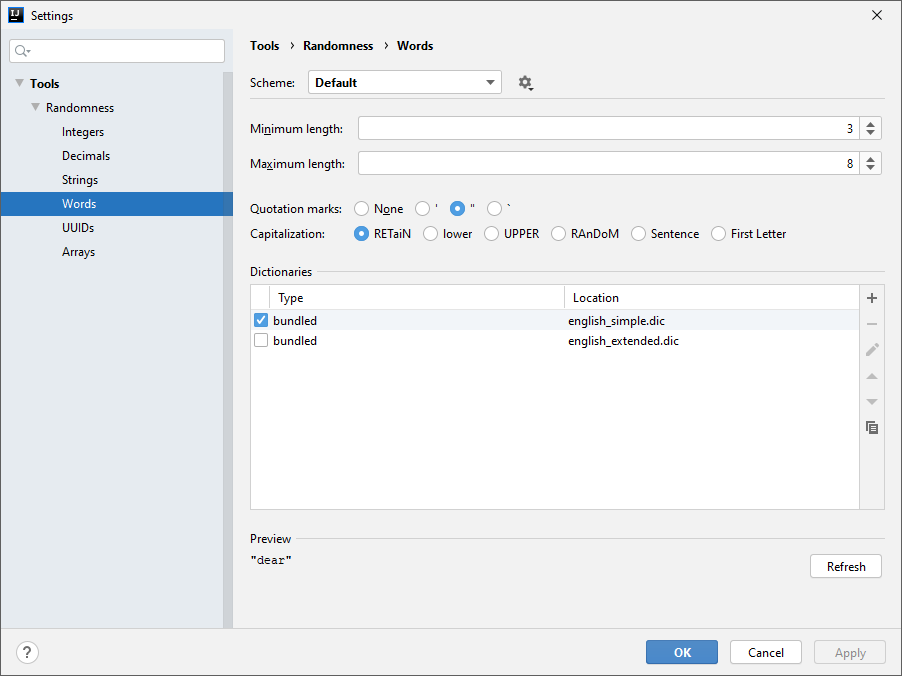
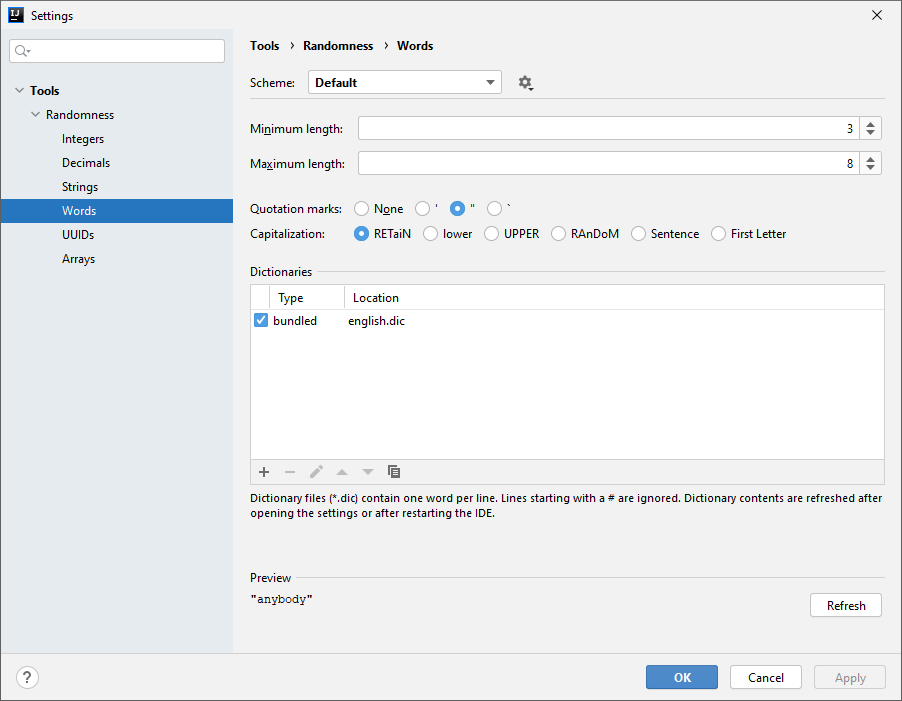
Bump version number, add change notes, update images

diff --git a/src/main/resources/META-INF/change-notes.html b/src/main/resources/META-INF/change-notes.html
@@ -1,23 +1,58 @@
 <b>Breaking changes</b>
 <ul>
-    <li>Minimum IDE version now 2019.3. (#209)</li>
-    <li>Removed extended English dictionary to improve performance and plugin size.</li>
+    <li>
+        Minimum IDE version has been increased to 2020.1.
+        (<a href="https://github.com/FWDekker/intellij-randomness/issues/209">#209</a>,
+         <a href="https://github.com/FWDekker/intellij-randomness/pull/345">#345</a>,
+         <a href="https://github.com/FWDekker/intellij-randomness/pull/361">#361</a>)
+    </li>
+    <li>
+        Extended English dictionary (<tt>english_extended.dic</tt>) has been removed to improve performance and reduce
+        plugin size.
+        (<a href="https://github.com/FWDekker/intellij-randomness/pull/352">#352</a>)
+    </li>
 </ul>
 <br />
 <b>New features</b>
 <ul>
-    <li>Change capitalization of integers base greater than 10. (#346)</li>
-    <li>Added in-app help info about dictionaries. (#347)</li>
-    <li>Improved error messages for IO failures with dictionaries. (#354)</li>
-    <li>Altered dictionary table column widths. (#354)</li>
-    <li>Improve detection of updated dictionaries in settings screen. (#354)</li>
-    <li>Detect invalid settings even when settings have not been changed. (#354)</li>
-    <li>Add improved support for drag-and-drop of dictionaries. (#350)</li>
+    <li>
+        <b>🔠 Integer capitalization</b>.<br />
+        Option to change capitalization of Integers with base greater than 10.
+        For example, generate <tt>0xFF</tt> instead of <tt>0xff</tt>.
+        (<a href="https://github.com/FWDekker/intellij-randomness/issues/346">#346</a>)
+    </li>
+    <li>
+        Short inline explanation of how dictionaries work in the Words settings dialog.
+        (<a href="https://github.com/FWDekker/intellij-randomness/issues/347">#347</a>)
+    </li>
+    <li>
+        Improved support for drag-and-drop of dictionary files into dictionary table.
+        (<a href="https://github.com/FWDekker/intellij-randomness/issues/350">#350</a>)
+    </li>
+    <li>
+        Improved error messages for IO failures with dictionaries.
+        (<a href="https://github.com/FWDekker/intellij-randomness/issues/354">#354</a>)
+    </li>
+    <li>
+        Natural column widths in dictionary table.
+        (<a href="https://github.com/FWDekker/intellij-randomness/issues/354">#354</a>)
+    </li>
+    <li>
+        Changes to dictionary contents are detected directly while in the Words settings dialog.
+        (<a href="https://github.com/FWDekker/intellij-randomness/issues/354">#354</a>)
+    </li>
+    <li>
+        Invalid settings are marked as modified even if settings have not been changed.
+        (<a href="https://github.com/FWDekker/intellij-randomness/issues/354">#354</a>)
+    </li>
 </ul>
 <br />
 <b>Fixes</b>
 <ul>
-    <li>Fixed sub-type listing using custom implementation. (#341)</li>
+    <li>
+        Listing of data types in Randomness settings dialog has been fixed.
+        (<a href="https://github.com/FWDekker/intellij-randomness/issues/341">#341</a>)
+    </li>
 </ul>
 <br />
 Change notes of previous updates can be found on the

diff --git a/.github/ISSUE_TEMPLATE/bug_report.md b/.github/ISSUE_TEMPLATE/bug_report.md
@@ -24,10 +24,10 @@ assignees: FWDekker
 <!-- If applicable, add screenshots to help explain your problem. -->
 
 **Version information**
- - Randomness version [e.g. 2.6.0]: <!-- Check `Settings -> Plugins` in your IDE and search for `Randomness` -->
- - IDE version [e.g. IntelliJ Community 2019.3.1]: <!-- Check `Help -> About` in your IDE -->
- - Operating system [e.g. Windows 10, Ubuntu 18.04, macOS 10.15]: <!-- Use a search engine for help if you don't know -->
- - Java version [e.g. 1.8.202, 11.0.4]: <!-- Run `java -version` in a terminal or check https://www.java.com/en/download/help/version_manual.xml -->
+ - Randomness version [e.g. 2.7.0]: <!-- Check `Settings -> Plugins` in your IDE and search for `Randomness` -->
+ - IDE version [e.g. IntelliJ Community 2020.3.1]: <!-- Check `Help -> About` in your IDE -->
+ - Operating system [e.g. Windows 10, Ubuntu 20.04, macOS 11.1]: <!-- Use a search engine for help if you don't know -->
+ - Java version [e.g. 1.8.271, 11.0.9]: <!-- Run `java -version` in a terminal or check https://www.java.com/en/download/help/version_manual.xml -->
 
 **Additional context**
 <!-- Add any other context about the problem here. -->

diff --git a/.github/RELEASE_CHECKLIST.md b/.github/RELEASE_CHECKLIST.md
@@ -4,6 +4,8 @@
 * Update `README.md`, `change-notes.html`, and `description.html` if necessary.
   * Make sure to preview the change notes in the IDE by loading the plugin.
 * Update screenshots in `.github/img/` and on the plugin repository if necessary.
+  * Distance between bottom of "Refresh" button and top of button bar at bottom is 50 pixels, or the original distance,
+    whichever is smaller.
 * Ensure documentation generates without errors and push documentation to `gh-pages` branch.
 
 ## Verification
